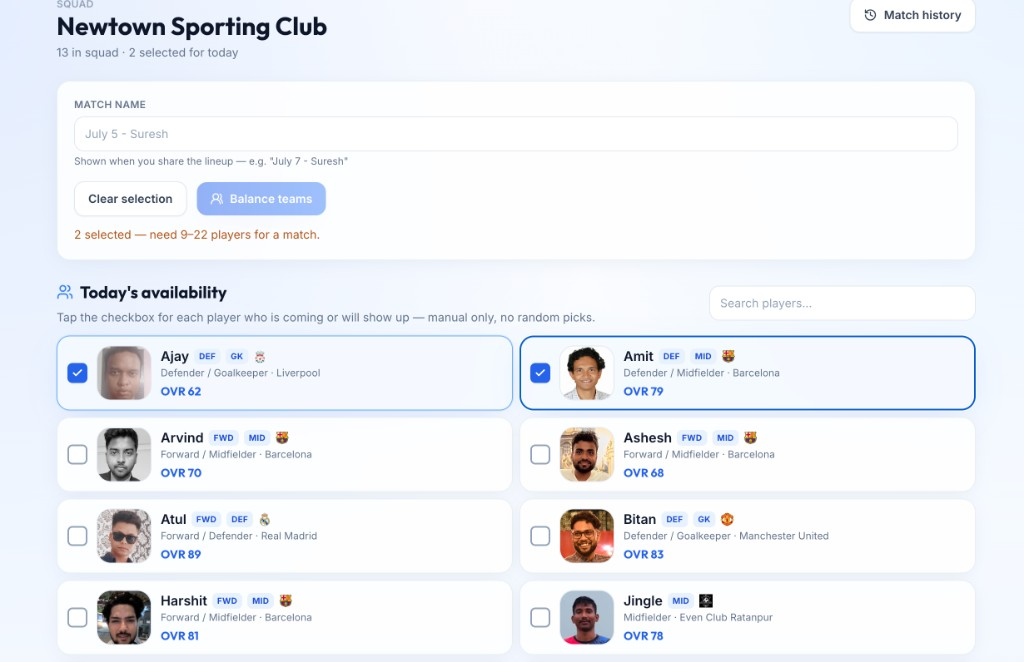
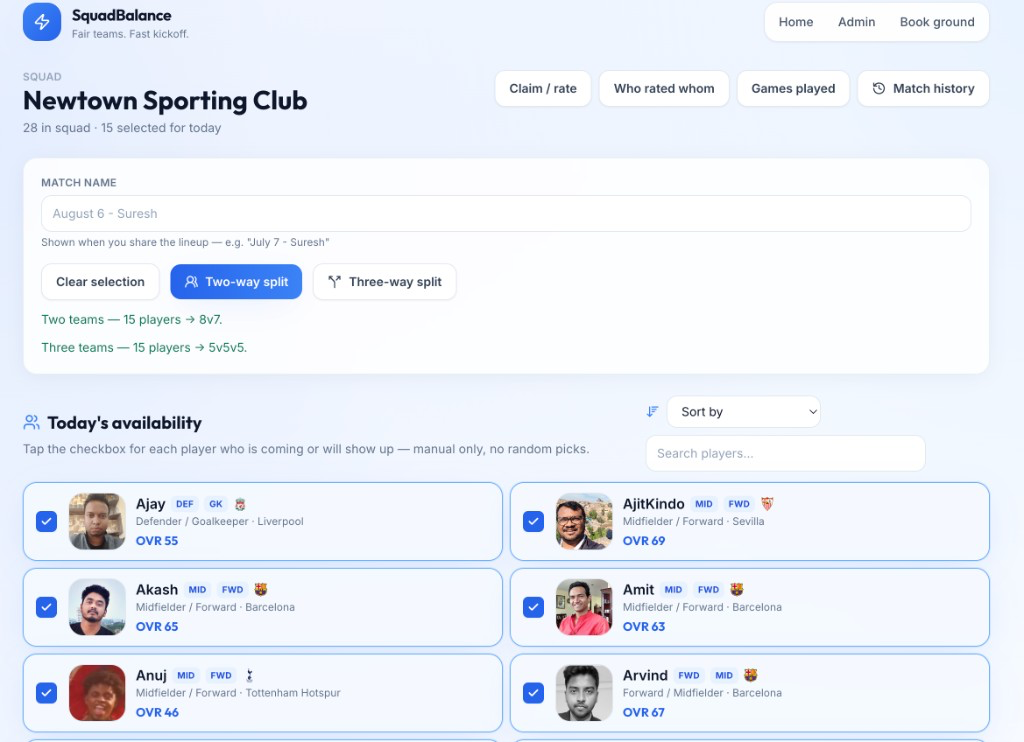
Add hop-in buttons for rest of squad in quick swap and refresh guide screenshot.
Pool players can move to A/B/C without a two-tap swap; full teams prompt who to replace. Guide step 3 image shows Two-way split.

diff --git a/src/components/TeamEditor.tsx b/src/components/TeamEditor.tsx
@@ -317,18 +317,92 @@ function PlayerPool({
   );
 }
 
+function PoolMoveButtons({
+  playerId,
+  threeTeam,
+  onMoveToTeam,
+}: {
+  playerId: string;
+  threeTeam: boolean;
+  onMoveToTeam: (playerId: string, targetTeam: EditorTeam) => void;
+}) {
+  if (threeTeam) {
+    return (
+      <>
+        <button
+          type="button"
+          className="flex h-8 w-8 items-center justify-center rounded-lg border border-slate-200 bg-white text-xs font-bold text-blue-700 hover:border-blue-300"
+          onClick={() => onMoveToTeam(playerId, 'a')}
+          aria-label="Move to Team A"
+          title="Team A"
+        >
+          A
+        </button>
+        <button
+          type="button"
+          className="flex h-8 w-8 items-center justify-center rounded-lg border border-slate-200 bg-white text-xs font-bold text-red-700 hover:border-red-300"
+          onClick={() => onMoveToTeam(playerId, 'b')}
+          aria-label="Move to Team B"
+          title="Team B"
+        >
+          B
+        </button>
+        <button
+          type="button"
+          className="flex h-8 w-8 items-center justify-center rounded-lg border border-slate-200 bg-white text-xs font-bold text-amber-700 hover:border-amber-300"
+          onClick={() => onMoveToTeam(playerId, 'c')}
+          aria-label="Move to Team C"
+          title="Team C"
+        >
+          C
+        </button>
+      </>
+    );
+  }
+
+  return (
+    <>
+      <button
+        type="button"
+        className="flex h-8 w-8 items-center justify-center rounded-lg border border-slate-200 bg-white text-slate-600 hover:border-blue-300 hover:text-blue-700"
+        onClick={() => onMoveToTeam(playerId, 'a')}
+        aria-label="Move to Team A"
+        title="Team A"
+      >
+        <ArrowUp className="h-4 w-4 xl:hidden" />
+        <ArrowLeft className="hidden h-4 w-4 xl:block" />
+      </button>
+      <button
+        type="button"
+        className="flex h-8 w-8 items-center justify-center rounded-lg border border-slate-200 bg-white text-slate-600 hover:border-red-300 hover:text-red-700"
+        onClick={() => onMoveToTeam(playerId, 'b')}
+        aria-label="Move to Team B"
+        title="Team B"
+      >
+        <ArrowDown className="h-4 w-4 xl:hidden" />
+        <ArrowRight className="hidden h-4 w-4 xl:block" />
+      </button>
+    </>
+  );
+}
+
 function MultiTeamSwapPanel({
   teams,
   poolPlayers,
   poolLabel = 'Rest of squad',
+  threeTeam,
   selected,
+  pendingMove,
   onSelect,
   onSwapPair,
+  onMoveFromPool,
 }: {
   teams: Array<{ key: EditorTeam; name: string; players: Player[]; accent: string }>;
   poolPlayers: Player[];
   poolLabel?: string;
+  threeTeam: boolean;
   selected: { source: DragSource; playerId: string } | null;
+  pendingMove: { playerId: string; targetTeam: EditorTeam } | null;
   onSelect: (source: DragSource, playerId: string) => void;
   onSwapPair: (
     from: DragSource,
@@ -336,8 +410,14 @@ function MultiTeamSwapPanel({
     to: DragSource,
     toPlayerId: string,
   ) => void;
+  onMoveFromPool: (playerId: string, targetTeam: EditorTeam) => void;
 }) {
   function handlePick(source: DragSource, playerId: string) {
+    if (pendingMove && source === pendingMove.targetTeam) {
+      onSwapPair('pool', pendingMove.playerId, source, playerId);
+      return;
+    }
+
     if (!selected) {
       onSelect(source, playerId);
       return;
@@ -361,6 +441,20 @@ function MultiTeamSwapPanel({
     const team = teams.find((t) => t.key === selected.source);
     return team?.players.find((p) => p.id === selected.playerId)?.name ?? null;
   })();
+
+  const pendingTeamName = pendingMove
+    ? (teams.find((t) => t.key === pendingMove.targetTeam)?.name ?? `Team ${pendingMove.targetTeam.toUpperCase()}`)
+    : null;
+
+  const hint = pendingMove
+    ? `Tap someone on ${pendingTeamName} to replace — ${poolPlayers.find((p) => p.id === pendingMove.playerId)?.name ?? 'player'} hops in.`
+    : selected
+      ? selectedName
+        ? selected.source === 'pool'
+          ? `Selected ${selectedName} — tap A / B${threeTeam ? ' / C' : ''} to hop in, or tap a player on a team to swap.`
+          : `Selected ${selectedName} — tap rest of squad or another team to swap, or use move buttons on pool.`
+        : 'Selected — tap another player to swap'
+      : `Rest of squad: tap A / B${threeTeam ? ' / C' : ''} to hop in. Or tap two players on different lists to swap.`;
 
   const columns: Array<{
     key: DragSource;
@@ -390,13 +484,7 @@ function MultiTeamSwapPanel({
 
   return (
     <div className="space-y-3">
-      <p className="text-sm text-slate-600">
-        {selected
-          ? selectedName
-            ? `Selected ${selectedName} — tap another player (any team or rest) to swap`
-            : 'Selected — tap another player to swap'
-          : 'Tap one player, then tap another on a different list to swap them.'}
-      </p>
+      <p className="text-sm text-slate-600">{hint}</p>
       <div
         className={cn(
           'grid gap-3',
@@ -410,7 +498,11 @@ function MultiTeamSwapPanel({
         {columns.map((col) => (
           <section
             key={col.key}
-            className={cn('overflow-hidden rounded-2xl border bg-white', col.borderClass)}
+            className={cn(
+              'overflow-hidden rounded-2xl border bg-white',
+              col.borderClass,
+              pendingMove?.targetTeam === col.key && 'border-elite-400 ring-2 ring-elite-100',
+            )}
           >
             <div className={cn('border-b px-3 py-2.5', col.headerClass)}>
               <h3 className="font-display font-bold text-slate-900">{col.name}</h3>
@@ -421,6 +513,41 @@ function MultiTeamSwapPanel({
                 <p className="rounded-xl border border-dashed border-slate-200 px-3 py-6 text-center text-sm text-slate-400">
                   Empty
                 </p>
+              ) : col.key === 'pool' ? (
+                col.players.map((player) => {
+                  const isSelected =
+                    selected?.source === col.key && selected.playerId === player.id;
+                  const isPending = pendingMove?.playerId === player.id;
+                  return (
+                    <div
+                      key={player.id}
+                      className={cn(
+                        'flex items-center gap-2 rounded-xl border p-2 transition',
+                        isSelected || isPending
+                          ? col.selectedBorder
+                          : 'border-slate-200 bg-slate-50/60',
+                      )}
+                    >
+                      <button
+                        type="button"
+                        className="min-w-0 flex-1 text-left"
+                        onClick={() => handlePick(col.key, player.id)}
+                      >
+                        <div className="flex items-center gap-2">
+                          <PlayerAvatar player={player} />
+                          <PlayerSummary player={player} />
+                        </div>
+                      </button>
+                      <div className="flex shrink-0 items-center gap-1">
+                        <PoolMoveButtons
+                          playerId={player.id}
+                          threeTeam={threeTeam}
+                          onMoveToTeam={onMoveFromPool}
+                        />
+                      </div>
+                    </div>
+                  );
+                })
               ) : (
                 col.players.map((player) => {
                   const isSelected =
@@ -514,12 +641,53 @@ export function TeamEditor({
     source: DragSource;
     playerId: string;
   } | null>(null);
+  const [pendingMove, setPendingMove] = useState<{
+    playerId: string;
+    targetTeam: EditorTeam;
+  } | null>(null);
 
   const resetDrag = () => {
     setDragging(null);
     setDropTargetId(null);
     setDropTargetTeam(null);
   };
+
+  function getTeamPlayers(team: EditorTeam): Player[] {
+    if (team === 'a') return teamAPlayers;
+    if (team === 'b') return teamBPlayers;
+    return teamCPlayers;
+  }
+
+  function getTeamCapacity(team: EditorTeam): number {
+    if (team === 'a') return teamACapacity;
+    if (team === 'b') return teamBCapacity;
+    return teamCCapacity;
+  }
+
+  function clearSwapSelection() {
+    setMultiSelected(null);
+    setPendingMove(null);
+  }
+
+  function handleMoveFromPool(playerId: string, targetTeam: EditorTeam) {
+    const targetPlayers = getTeamPlayers(targetTeam);
+    const capacity = getTeamCapacity(targetTeam);
+
+    if (targetPlayers.length < capacity) {
+      onMoveToTeam(playerId, targetTeam);
+      clearSwapSelection();
+      return;
+    }
+
+    if (multiSelected?.source === targetTeam && multiSelected.playerId !== playerId) {
+      onSwap('pool', playerId, targetTeam, multiSelected.playerId);
+      clearSwapSelection();
+      return;
+    }
+
+    setPendingMove({ playerId, targetTeam });
+    setMultiSelected({ source: 'pool', playerId });
+  }
 
   function handleDropOnPlayer(toTeam: EditorTeam, toPlayerId: string) {
     if (!dragging || dragging.playerId === toPlayerId) {
@@ -605,8 +773,8 @@ export function TeamEditor({
         <p className="mt-2 text-sm text-slate-600">
           {tab === 'swap'
             ? threeTeam
-              ? 'Swap between A / B / C, or with Rest of squad (not ticked as coming). Tap two players to exchange them.'
-              : 'Swap between Team A, Team B, or Rest of squad (not ticked as coming). Tap two players to exchange them.'
+              ? 'Rest of squad: tap A / B / C to hop in (tap who to replace if the team is full). Tap two players to swap.'
+              : 'Rest of squad: tap Team A / B to hop in (tap who to replace if the team is full). Tap two players to swap.'
             : tab === 'lock'
               ? threeTeam
                 ? 'Name each team, place the players you want fixed, then Fill rest of teams to balance the remainder.'
@@ -644,12 +812,18 @@ export function TeamEditor({
               : []),
           ]}
           poolPlayers={poolPlayers}
+          threeTeam={threeTeam}
           selected={multiSelected}
-          onSelect={(source, playerId) => setMultiSelected({ source, playerId })}
+          pendingMove={pendingMove}
+          onSelect={(source, playerId) => {
+            setPendingMove(null);
+            setMultiSelected({ source, playerId });
+          }}
           onSwapPair={(from, fromId, to, toId) => {
             onSwap(from, fromId, to, toId);
-            setMultiSelected(null);
+            clearSwapSelection();
           }}
+          onMoveFromPool={handleMoveFromPool}
         />
       ) : (
       <div

diff --git a/src/pages/CaptainsGuidePage.tsx b/src/pages/CaptainsGuidePage.tsx
@@ -61,11 +61,11 @@ export function CaptainsGuidePage() {
         <figure className="overflow-hidden rounded-xl border border-slate-200">
           <img
             src="/guide/select-players.png"
-            alt="Newtown Sporting Club — tick checkboxes under Today's availability"
+            alt="Newtown Sporting Club — tick availability, then Two-way split or Three-way split"
             className="w-full"
           />
           <figcaption className="bg-slate-50 px-3 py-2 text-center text-xs text-slate-500">
-            Tick everyone who is coming or will show up
+            Tick who is coming — then choose Two-way split or Three-way split
           </figcaption>
         </figure>
         <p className="text-sm text-slate-600">
